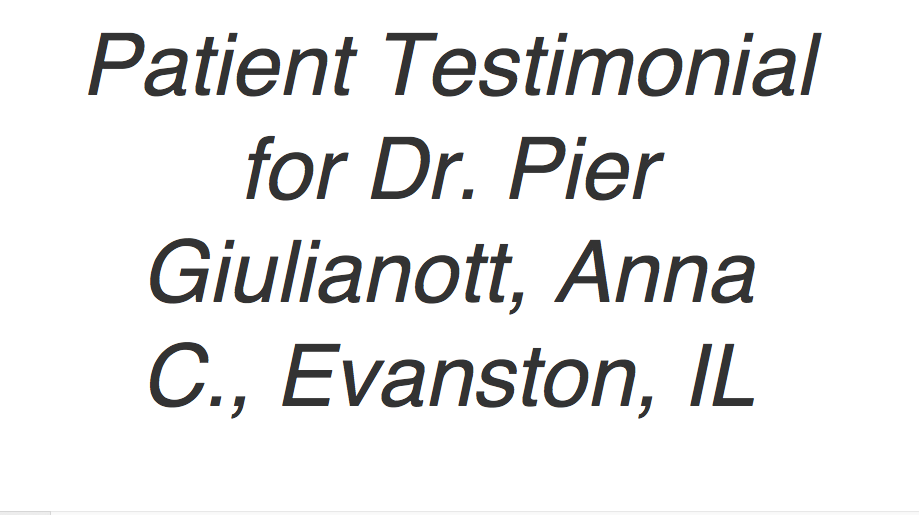
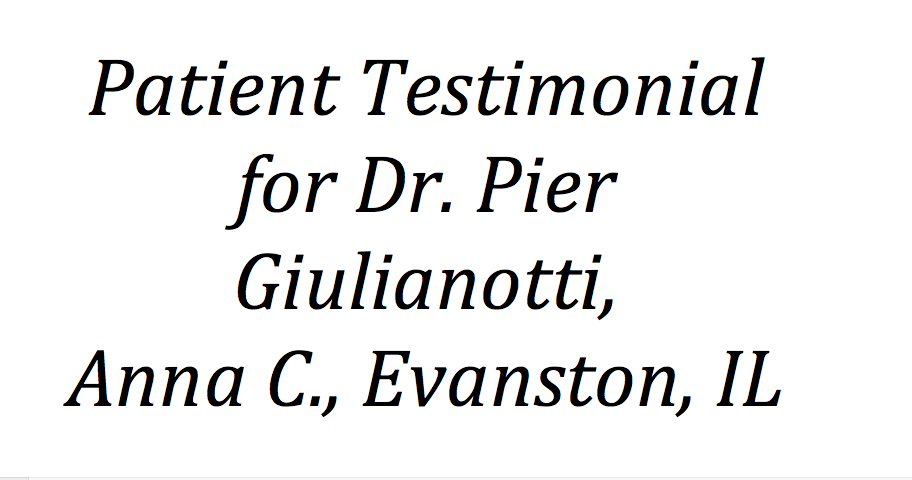
Small Changes
Addition Small changes

Changed region(s): [[0.0614, 0.0625, 0.8904, 0.875], [0.1842, 0.6562, 0.2456, 0.7188]]

diff --git a/index.html b/index.html
@@ -916,7 +916,7 @@ Dr. Giulianotti is unbelievably passionate about this work, and as a result, I g
 
                                                         
 													</div>
-                                                    <br><p style="font-style: italic">                                                                                                              --- Anne C., Evanston, IL</p>
+                                                    <br><p style="font-style: italic">                                                                                                              --- Anna C., Evanston, IL</p>
 												</div>
 											</div>
 											<div class="modal-footer">

diff --git a/css/style.css b/css/style.css
@@ -1052,7 +1052,7 @@ font-weight: 900;
 }
 .address{
 position: relative; 
-    left:30px; 
+    left:24px; 
 
 }
 .imagedropshadow { 
